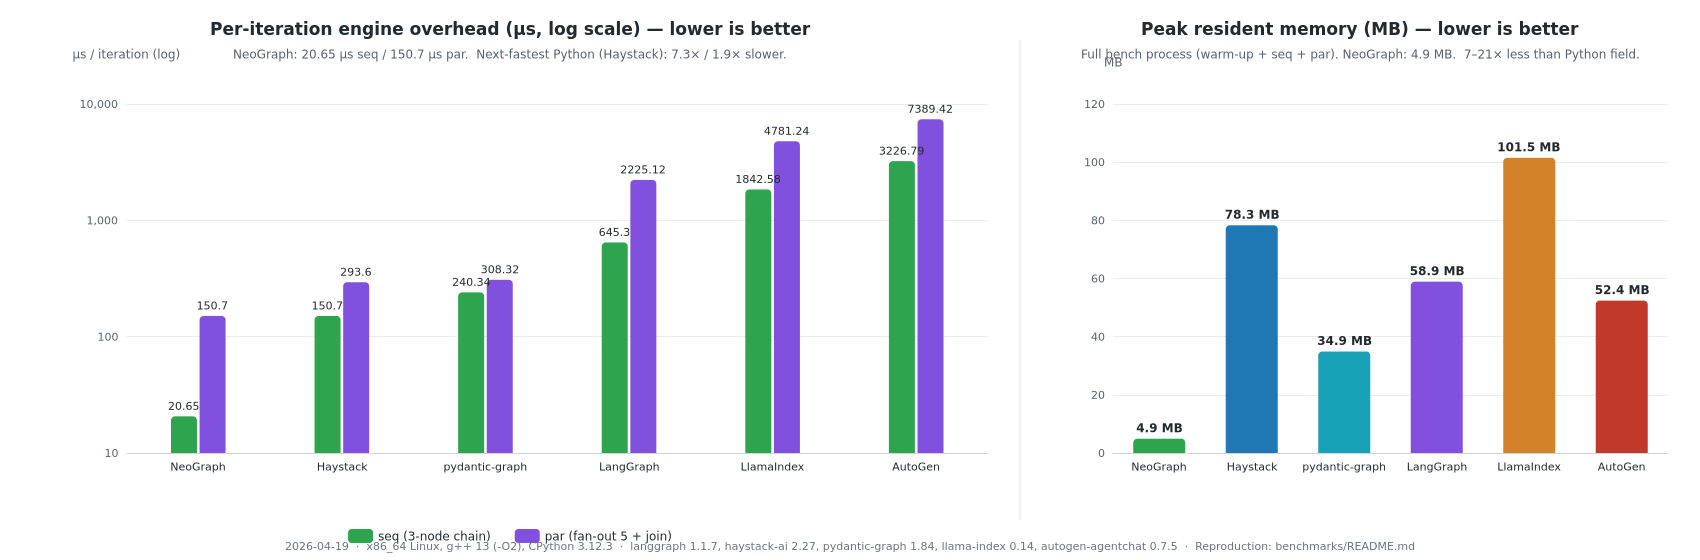
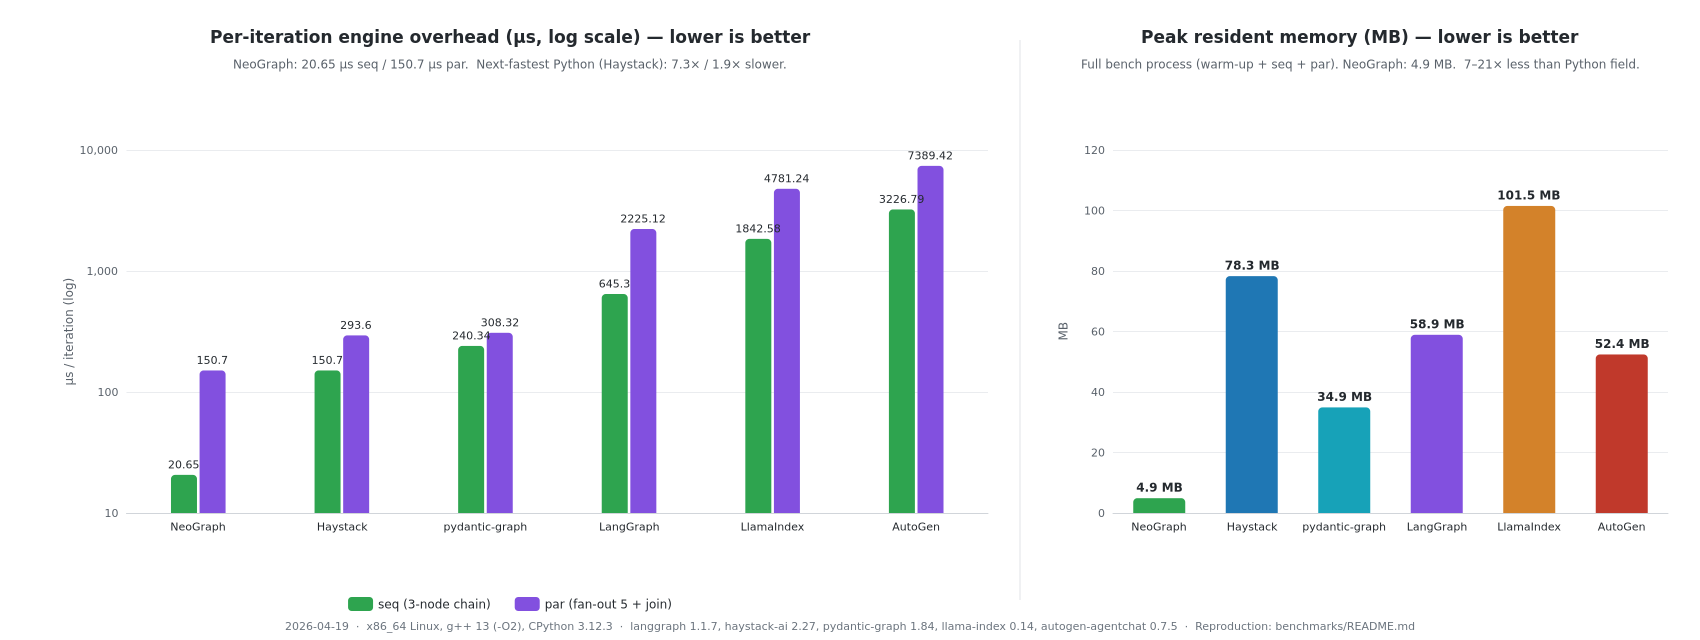
bench: loosen bench chart spacing (title gap + rotated y-axis names)
The previous layout packed title, subtitle, and y-axis name label into
the top ~80px, which read as cramped. Give the title block a 12px
itemGap, move each y-axis name from the default top-left position to
a rotated mid-left placement (out of the subtitle's lane), push the
grid top to 150 / bottom to 108, and grow canvas height from 560 to
640 for the extra legend room.

diff --git a/benchmarks/render.js b/benchmarks/render.js
@@ -54,13 +54,14 @@ function renderLatency(canvas) {
             text: 'Per-iteration engine overhead (µs, log scale) — lower is better',
             subtext: 'NeoGraph: 20.65 µs seq / 150.7 µs par.  Next-fastest Python (Haystack): 7.3× / 1.9× slower.',
             left: 'center',
-            top: 16,
+            top: 24,
+            itemGap: 12,
             textStyle: { fontSize: 17, fontWeight: 'bold', color: '#24292e' },
             subtextStyle: { fontSize: 12, color: '#586069' }
         },
-        grid: { left: 80, right: 32, top: 104, bottom: 88, containLabel: true },
+        grid: { left: 80, right: 32, top: 150, bottom: 108, containLabel: true },
         legend: {
-            bottom: 12,
+            bottom: 24,
             textStyle: { fontSize: 12, color: '#24292e' },
             itemGap: 24,
             data: ['seq (3-node chain)', 'par (fan-out 5 + join)'],
@@ -77,7 +78,9 @@ function renderLatency(canvas) {
         yAxis: {
             type: 'log',
             name: 'µs / iteration (log)',
-            nameGap: 44,
+            nameLocation: 'middle',
+            nameRotate: 90,
+            nameGap: 52,
             nameTextStyle: { fontSize: 12, color: '#586069' },
             axisLabel: { fontSize: 11, color: '#586069' },
             splitLine: { lineStyle: { color: '#eaecef' } },
@@ -113,11 +116,12 @@ function renderRss(canvas) {
             text: 'Peak resident memory (MB) — lower is better',
             subtext: 'Full bench process (warm-up + seq + par). NeoGraph: 4.9 MB.  7–21× less than Python field.',
             left: 'center',
-            top: 16,
+            top: 24,
+            itemGap: 12,
             textStyle: { fontSize: 17, fontWeight: 'bold', color: '#24292e' },
             subtextStyle: { fontSize: 12, color: '#586069' }
         },
-        grid: { left: 64, right: 32, top: 104, bottom: 88, containLabel: true },
+        grid: { left: 64, right: 32, top: 150, bottom: 108, containLabel: true },
         xAxis: {
             type: 'category',
             data: FRAMEWORKS,
@@ -128,7 +132,9 @@ function renderRss(canvas) {
         yAxis: {
             type: 'value',
             name: 'MB',
-            nameGap: 36,
+            nameLocation: 'middle',
+            nameRotate: 90,
+            nameGap: 44,
             nameTextStyle: { fontSize: 12, color: '#586069' },
             axisLabel: { fontSize: 11, color: '#586069' },
             splitLine: { lineStyle: { color: '#eaecef' } }
@@ -154,7 +160,7 @@ function renderRss(canvas) {
 }
 
 const w = 1700;
-const h = 560;
+const h = 640;
 const leftW = 1020;
 const rightW = w - leftW;
 
